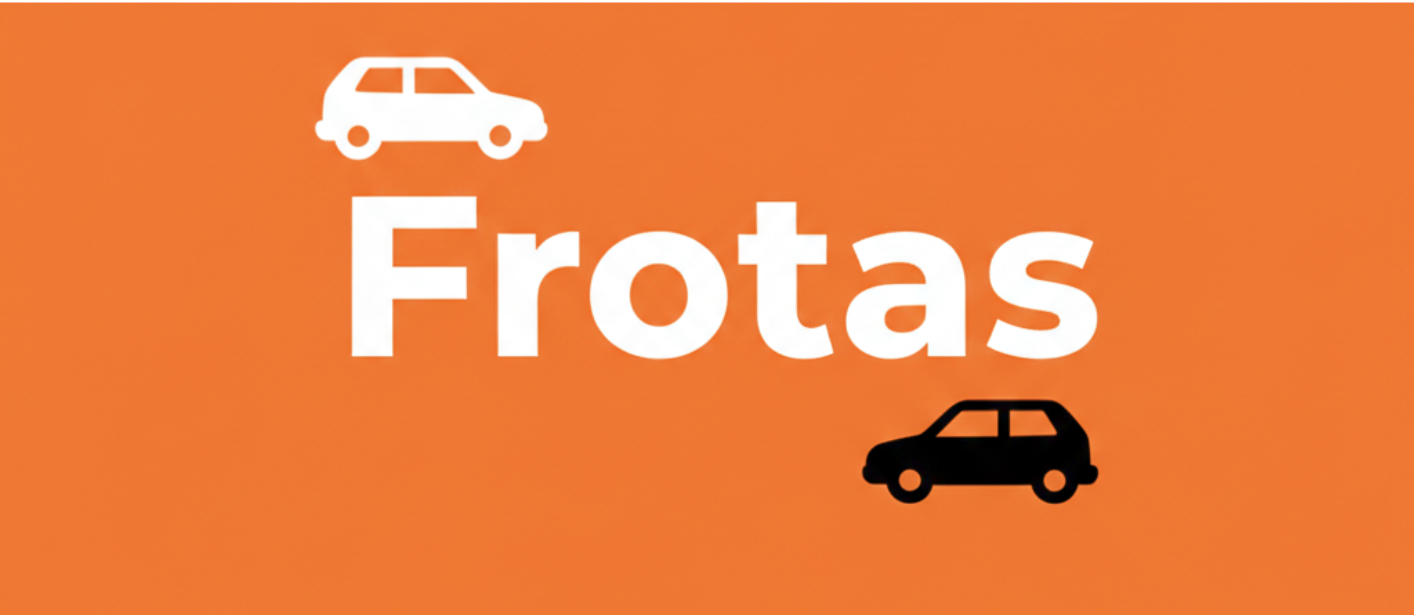
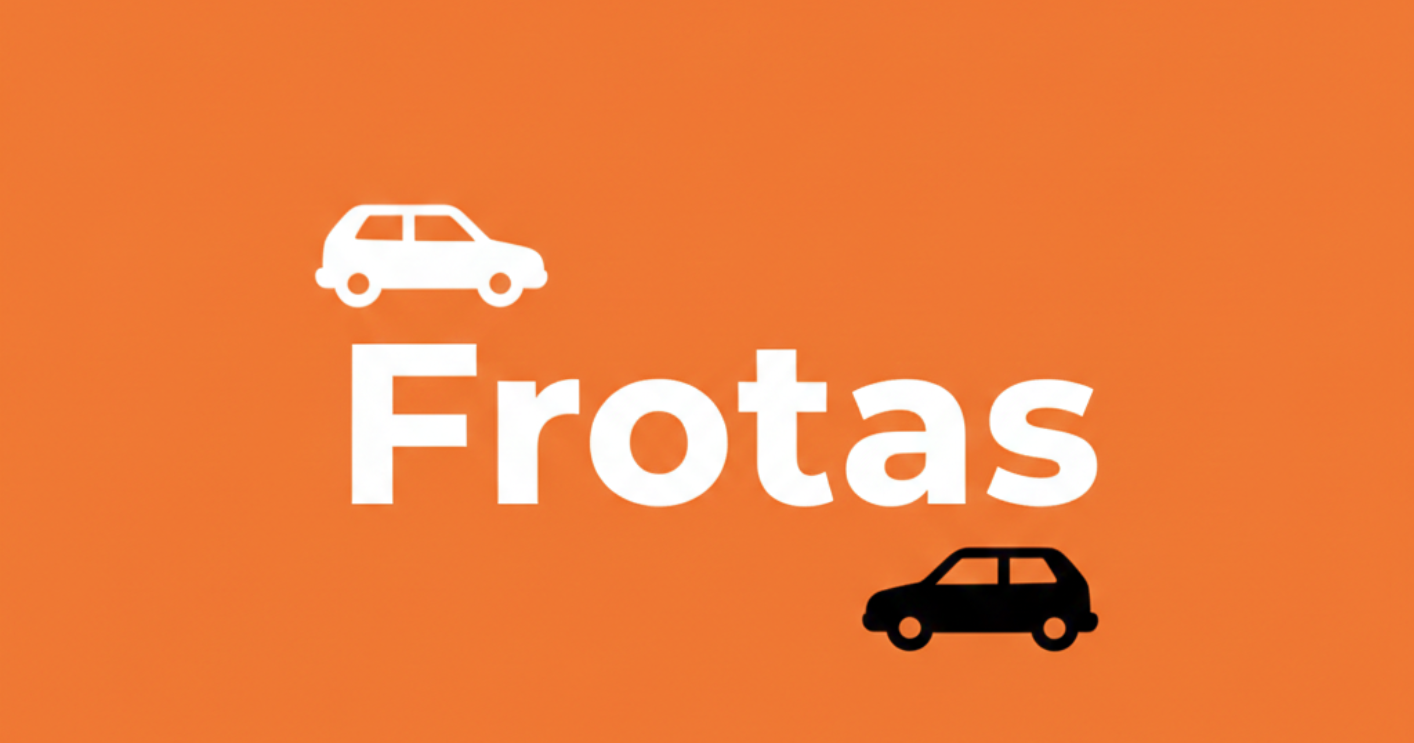
creation of the first grid of the ap-inicio

Changed region(s): [[0.2178, 0.0927, 0.7779, 0.8959], [0.0, 0.0, 1.0, 0.0309]]

diff --git a/index.html b/index.html
@@ -5,48 +5,33 @@
     <meta charset="UTF-8">
     <meta name="viewport" content="width=device-width, initial-scale=1.0">
     <title>Sebrae/AP - Acesso aos Sistemas do SEBRAE</title>
-    <link rel="stylesheet" href="styles.css">
-    <link rel="icon" type="img/png" href="assets/logosebrae.png">
+    <link rel="icon" type="imgage/png" href="assets/logosebrae.png">
 
     <link rel="preconnect" href="https://fonts.googleapis.com">
     <link rel="preconnect" href="https://fonts.gstatic.com" crossorigin>
-    
-    <link href="https://fonts.googleapis.com/css2?family=Poppins:wght@400;700&display=swap" rel="stylesheet">
-</head> 
+
+    <link rel="stylesheet" href="styles.css">
+
+</head>
 
 <body>
-    <header>
-        <div class="container">
-            <div class="first-title">
-                <h1>Sistemas Sebrae Amapá</h1>
-            </div>
-        </div>
+    <header class="main-title">
+        <h1 id="first-title">Sistemas Sebrae Amapá</h1>
     </header>
-
     <div class="grid-container">
-    <div class="item1">
-        <img src="assets/sebraetec.png" alt="sebraetec" class="item-image">
+        <div class="image-item"> <a href="#" target="_blank"><img src="assets/sebraetec.png" alt="Sebrae tec"></a> </div>
+        <div class="image-item"> <a href="#" target="_blank"><img src="assets/reservasalas.png" alt="Reserva de salas"></a> </div>
+        <div class="image-item"> <a href="#" target="_blank"><img src="assets/frotas.png" alt="AP frotas"></a> </div>
+        <div class="image-item"> <a href="#" target="_blank"><img src="assets/lojavirtual.png" alt="Loja virtual"></a> </div>
+        <div class="image-item"> <a href="#" target="_blank"><img src="assets/sebraesite.png" alt="Sebrae site"></a> </div>
+        <div class="image-item"> <a href="#" target="_blank"><img src="assets/ramaistelefonicos.png" alt="Ramais telefonicos"></a> </div>
+        <div class="image-item"> <a href="#" target="_blank"><img src="assets/sesuite.png" alt="Se suite"></a> </div>
+        <div class="image-item"> <a href="#" target="_blank"><img src="assets/senha1.png" alt="Senha"></a> </div>
+        <div class="image-item"> <a href="#" target="_blank"><img src="assets/portalempreendedor.png" alt="Portal do empreendedor"></a> </div>
+        <div class="image-item"> <a href="#" target="_blank"><img src="assets/appushr.png" alt="Appus hr"></a> </div>
+        <div class="image-item"> <a href="#" target="_blank"><img src="assets/correio.png" alt="Correio"></a> </div>
+        <div class="image-item"> <a href="#" target="_blank"><img src="assets/trocarsenha.png" alt="Alterar senha do usuário"></a> </div>
     </div>
-    <div class="item2">
-        <img src="assets/reservadesalas.png" alt="reservasalas" class="item-image">
-    </div>
-    <div class="item3">
-        <img src="assets/frotas.png" alt="reservasalas" class="item-image">
-    </div>
-    <div class="item4">
-        <img src="assets/lojavirtual.png" alt="reservasalas" class="item-image">
-    </div>
-    <div class="item5">5</div>
-    <div class="item6">6</div>
-    <div class="item7">7</div>
-    <div class="item8">8</div>
-    <div class="item9">9</div>
-    <div class="item10">10</div>
-    <div class="item11">11</div>
-    <div class="item12">12</div>
-    </div>
-    
-
 </body>
 
 </html>

diff --git a/styles.css b/styles.css
@@ -1,41 +1,57 @@
 *{
     margin:0px;
     padding:0px;
-    font-family:'poppins', sans-serif;
-    text-shadow: #808080 1px 1px;
+    font-family: 'Poppins', sans-serif;
 }
 
-body{
-    background: linear-gradient( #6a8aff, #b2fbff);
-    min-height:100vh;
+body {
+    background: linear-gradient(#6a8aff, #b2fbff);
+    min-height: 100vh;
+    display: flex;
+    flex-direction: column;
+    justify-content: center;
+    align-items: center;
 }
 
-h1{
-    margin-left: 270px;
-}
-.first-title{
-    padding-top: 200px;    /* Espaço no topo da página */
-    padding-bottom: 0px;
+.main-title{
+    width:95%;
+    max-width: 1200px;
+    margin-bottom: 5px;
+    cursor:default;
 }
 
 .grid-container{
     display:grid;
     grid-template-columns: repeat(4, 1fr);
-    grid-template-rows: repeat(3, 250px);
-    gap:20px;
-    padding:40px;
+    grid-template-rows: repeat(4, auto);
+    gap:5px;
+    row-gap:5px;
+
+    width:95%;
     max-width: 1200px;
-    margin:150px;
-    margin:-25px;
-    margin-left: 250px;
+    margin:0 auto;
+    padding-bottom:50px;
 }
 
-.item-image{
-    max-width: 100%; /* Garante que a imagem não ultrapasse a largura do item */
-    max-height: 80%; /* Garante que a imagem não ultrapasse a altura do item (ajuste se precisar de mais espaço para texto) */
-    object-fit: contain; /* Redimensiona a imagem para caber sem cortar */
-    margin-bottom: 10px; /* Espaço entre a imagem e o texto */
-    border-radius: 8px;
+.image-item {
+    width: 100%;
+    height: 100%;
+    display: flex;
+    justify-content: center;
+    align-items: center;
+    cursor:pointer;
 }
 
+.image-item img{
+    width:100%;
+    height:100%;
+    object-fit: contain;
+    border-radius: 10px;
+    transition: transform 0.3s ease, box-shadow 0.3s ease, filter 0.3s ease;
+}
 
+.image-item:hover{
+    transform: scale(1.03);
+    box-shadow:0 10px 20px rgba(0, 0, 0, 0.2);
+    filter: brightness(1.1);
+}
